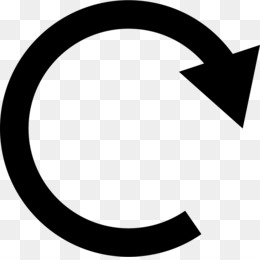
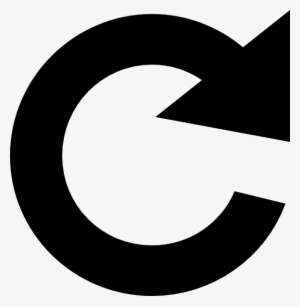
Add files via upload

diff --git a/part2.html b/part2.html
@@ -12,7 +12,12 @@
 <input type ="name" placeholder="Enter Name" size="100px"><br>
 <input type ="email" placeholder="Enter email address" size="100px"><br>
 <textarea id="message" name="Message" rows="10" cols="93px" placeholder="Enter Message"></textarea><br>
-<input type="submit" value="Submit &#8594;" > <input type="reset" a href="refresh.jpg"><br>
+<div class="submit">
+<input type="submit" value="Submit &#8594;" >
+</div>
+<div class="reset">
+<div class="reset"><button type="reset" value="Reset"><img src="refresh.jpg" height="25px" width="25px"></button><br> 
+</div>
 </form>
 <div class="Media">
 <h2> Social Media</h2>

diff --git a/stylecontact.css b/stylecontact.css
@@ -1,4 +1,16 @@
 
+.submit{
+	position: fixed;
+	right: 1000px;
+	padding: 10px;
+	border-style:groove;
+	background:rgb(56, 52, 52);
+}
+.reset{
+	position: fixed;
+	right: 393px;
+	padding: 3px;
+}
 a:link{
 	color:rgb(197, 200, 105);
 }
@@ -12,10 +24,12 @@ a:visited{
 	font-size: 25px;
 	position: fixed;
 	bottom: 100px;
+	right: 1150px;
 }
 .Social {
 	position: fixed;
 	bottom: 10px;
+	right: 1150px;
 }
 h1 {
 	text-align: center;
